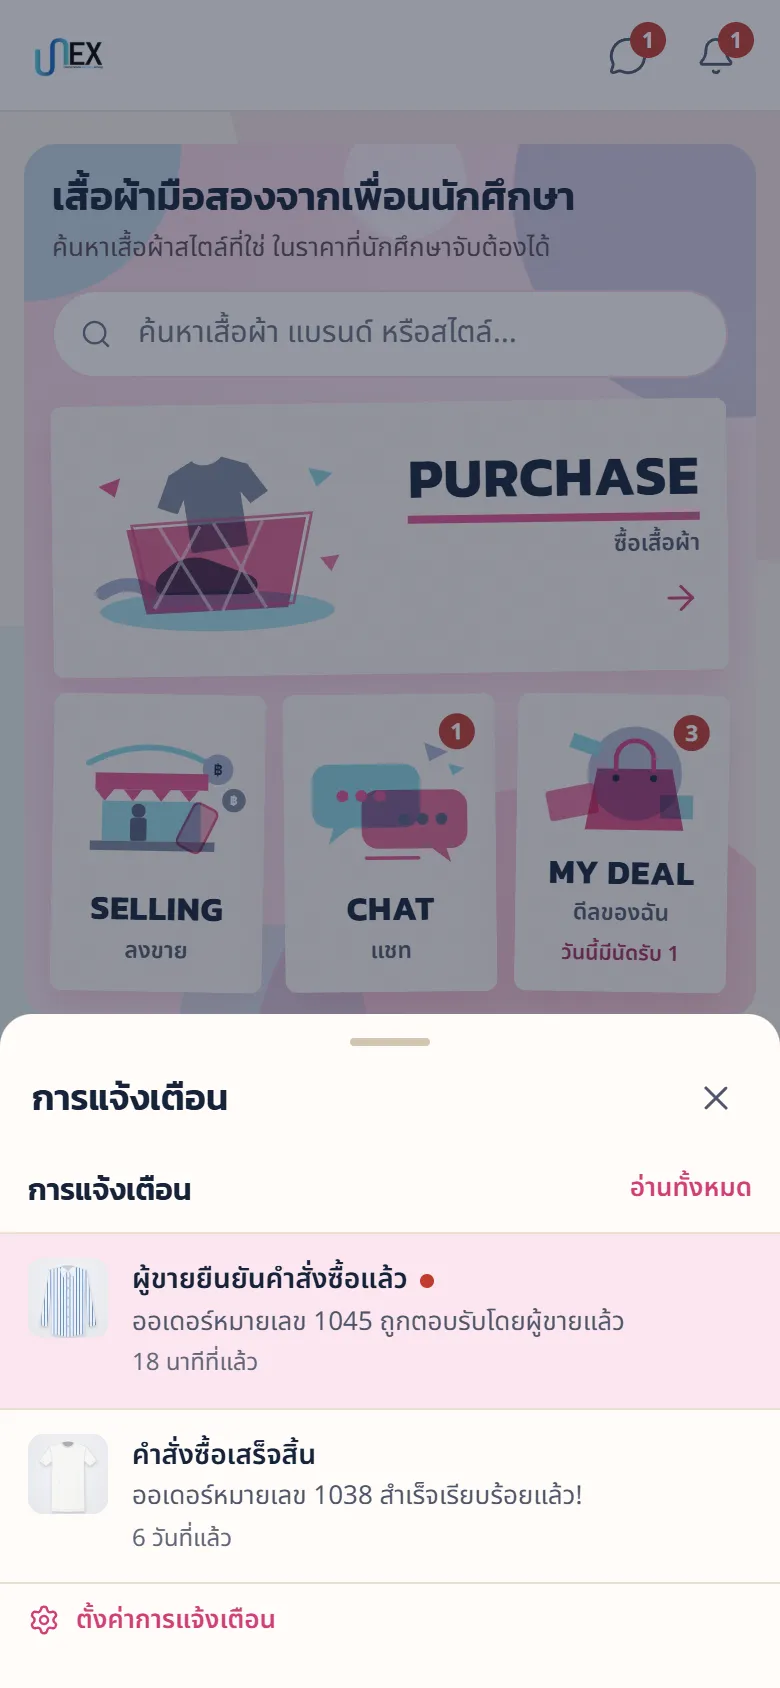
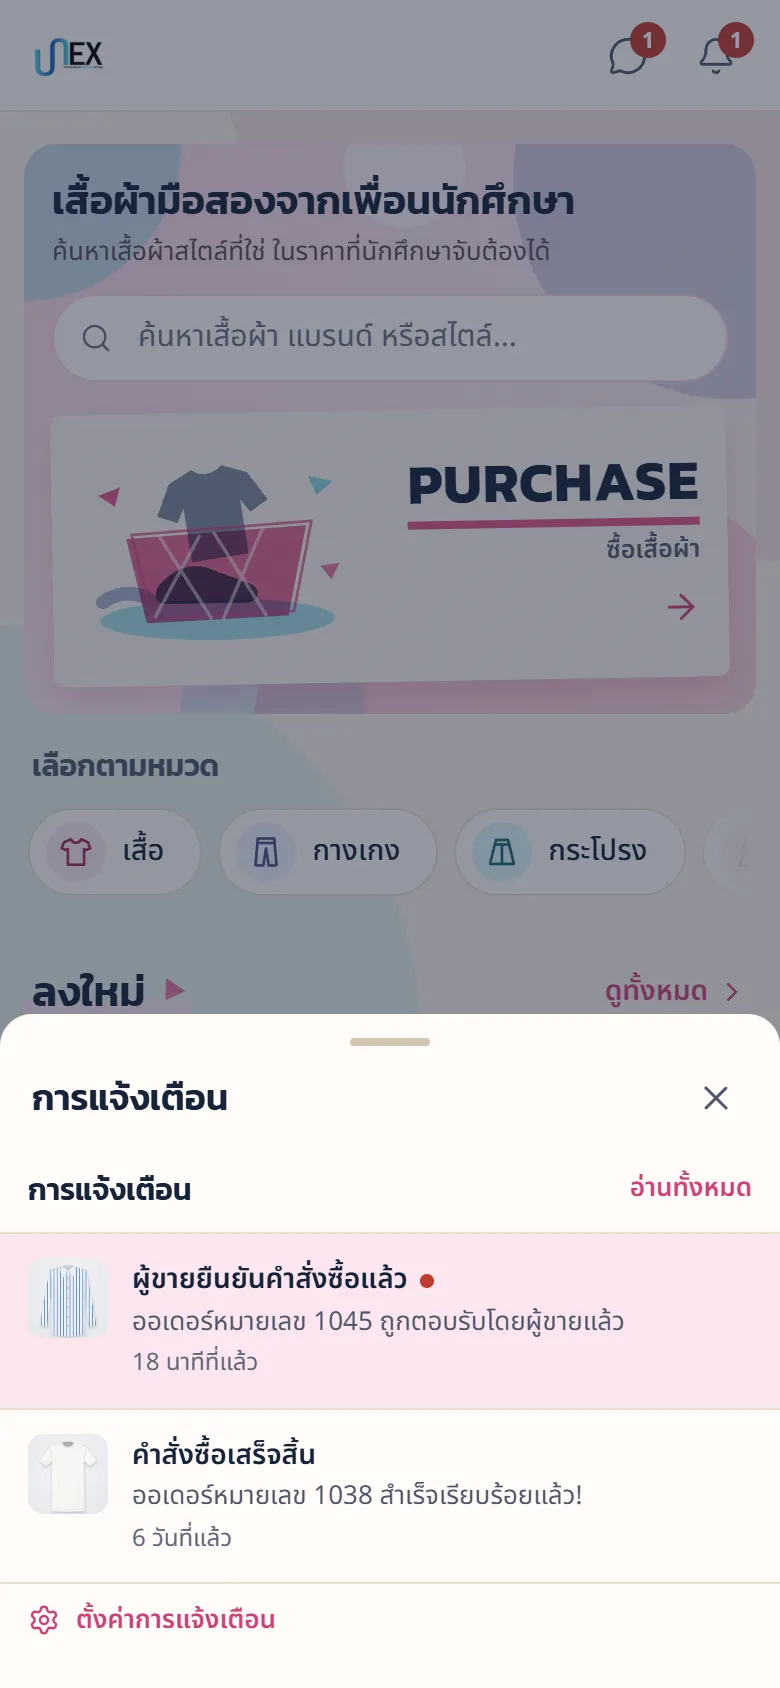
Home band keeps only PURCHASE: drop SELLING, CHAT and MY DEAL tiles; title and search left, PURCHASE card right (stacked on phones); refresh two help shots

diff --git a/index.html b/index.html
@@ -874,18 +874,17 @@ a.s-link{font-size:13px;font-weight:600;color:var(--primary);margin-top:auto}
 .icon-btn.send{background:var(--primary);color:var(--on-primary);border-radius:50%}
 
 /* ---------- home "rich menu" (matches the UNIXA LINE OA) ---------- */
-.rm{position:relative;border-radius:22px;padding:22px;margin-bottom:22px;background:var(--band-bg);color:var(--band-ink);overflow:hidden;isolation:isolate}
+.rm{position:relative;display:grid;grid-template-columns:minmax(0,1fr) minmax(300px,440px);gap:16px 32px;align-items:center;border-radius:22px;padding:24px 28px;margin-bottom:22px;background:var(--band-bg);color:var(--band-ink);overflow:hidden;isolation:isolate}
 .rm::before{content:"";position:absolute;inset:0;z-index:-1;background-image:var(--paper);opacity:.45}
-.rm-top{display:flex;align-items:flex-end;justify-content:space-between;gap:16px;flex-wrap:wrap;margin-bottom:18px}
+.rm-top{display:flex;flex-direction:column;align-items:stretch;gap:16px;min-width:0}
 .rm h1{font-size:28px;line-height:1.2;color:var(--band-ink)}
 .rm-top p{color:var(--band-sub);font-size:15px;margin-top:4px}
-.rm .hero-search{flex:1;min-width:280px;max-width:520px;margin:0}
+.rm .hero-search{min-width:0;max-width:520px;margin:0}
 .rm .hero-search input{background:#FFFCF8;border-color:rgba(207,63,121,.22);color:#16233A}
 .rm .hero-search input::placeholder{color:#6B7083}
 .rm .hero-search .i{color:#6B7083}
-.rm-grid{display:grid;grid-template-columns:2fr 1fr 1fr 1fr;gap:16px}
 .rm-t{position:relative;display:flex;flex-direction:column;align-items:center;justify-content:flex-end;gap:2px;min-height:190px;padding:14px 12px 16px;background:#FFF7F0 var(--paper);color:#16233A;border:0;border-radius:6px;box-shadow:var(--tile-shadow);transition:transform .15s;font:inherit;cursor:pointer;text-align:center;width:100%}
-.rm-t:nth-child(1){transform:rotate(-.8deg)}.rm-t:nth-child(2){transform:rotate(1deg)}.rm-t:nth-child(3){transform:rotate(-.6deg)}.rm-t:nth-child(4){transform:rotate(.9deg)}
+.rm-t{transform:rotate(-1deg)}
 .rm-t:hover{transform:rotate(0) translateY(-2px)}
 .rm-t:focus-visible{outline:3px solid #CF3F79;outline-offset:3px}
 .rm-art{width:100%;max-width:150px;height:auto;flex:1;min-height:0}
@@ -898,9 +897,7 @@ a.s-link{font-size:13px;font-weight:600;color:var(--primary);margin-top:auto}
 .rm-th{font-size:13.5px;color:#4F566B;font-weight:600;margin-top:3px}
 .rm-d{font-size:13px;color:#4F566B;margin-top:8px;line-height:1.45;max-width:30ch}
 .rm-arrow{color:#CF3F79;margin-top:6px}
-.rm-status{font-size:12px;color:#A82A61;font-weight:600;margin-top:2px}
-.rm-t .count{position:absolute;top:10px;right:10px}
-@media (max-width:899px){.rm-grid{grid-template-columns:repeat(3,minmax(0,1fr))}.rm-main{grid-column:1/-1}}
+@media (min-width:768px) and (max-width:1023px){.rm{grid-template-columns:minmax(0,1fr) 360px;gap:16px 24px;padding:22px}.rm-main{padding:14px 16px;gap:12px}.rm-main .rm-art{width:40%}.rm-main .rm-en{font-size:34px}}
 .sec-h h2{background:linear-gradient(transparent 62%,var(--primary-soft) 62%);padding:0 4px;margin-left:-4px}
 .action-card{background:#FFF9F4;color:#16233A;border:0;border-radius:20px;box-shadow:var(--shadow-soft)}
 .action-card.tone-danger{background:#FFF1EE}.action-card.tone-success{background:#EEF8F1}
@@ -961,21 +958,16 @@ a.s-link{font-size:13px;font-weight:600;color:var(--primary);margin-top:auto}
 @media (max-width:767px){
   :root{--top-h:56px}
   .sidebar,.nav-btn,.nav-scrim,.demo-fab,.nav-top .navrow{display:none}
-  .rm{padding:14px;border-radius:16px;margin:0 -4px 16px}
+  .rm{grid-template-columns:minmax(0,1fr);gap:14px;padding:16px 14px;border-radius:16px;margin:0 -4px 16px}
   .rm h1{font-size:20px}
-  .rm-top{margin-bottom:12px;gap:10px;flex-direction:column;align-items:stretch}
+  .rm-top{gap:10px}
   .rm-top p{font-size:13px}
   .rm .hero-search{min-width:0;max-width:none;width:100%}
-  .rm-grid{gap:10px}
-  .rm-t{min-height:118px;padding:8px 6px 10px}
-  .rm-en{font-size:17px}
-  .rm-th{font-size:11.5px}
-  .rm-status{font-size:10.5px}
+  .rm-th{font-size:12.5px}
   .rm-main{min-height:136px;padding:12px 14px}
   .rm-main .rm-en{font-size:28px}
   .rm-main .rm-art{width:44%}
   .rm-d{display:none}
-  .rm-art{max-width:96px}
   .bn[aria-current="page"]>svg{background:var(--primary-soft);border-radius:999px;padding:2px 14px;box-sizing:content-box}
   .only-desk-i{display:none}
   .only-mob-i{display:inline}
@@ -2642,8 +2634,6 @@ for (const ns in COPY_DIRECT) DICT[ns] = Object.assign(DICT[ns] || {}, COPY_DIRE
 const COPY_RM = {
   rm: {
     buyT:['ซื้อเสื้อผ้า','Buy clothes'], buyD:['เสื้อผ้ามือสองจากเพื่อนในมหาวิทยาลัย ราคานักศึกษา','Second-hand clothes from students on campus, at student prices'],
-    sellT:['ลงขาย','Sell'], sellSeller:['ตู้ของฉัน','My closet'], chatT:['แชท','Chat'], dealT:['ดีลของฉัน','My deals'],
-    dealToday:['วันนี้มีนัดรับ {n}','{n} pickup today'], dealNone:['วันนี้ยังไม่มีดีล','No deals today'], menu:['เมนูหลัก','Main menu'],
   },
 };
 for (const ns in COPY_RM) DICT[ns] = Object.assign(DICT[ns] || {}, COPY_RM[ns]);
@@ -3303,22 +3293,9 @@ const byNewest = (a, b) => b.listed - a.listed;
 /* Home "rich menu" drawings — flat riso inks (pink, aqua, lavender, slate) overlapping with multiply, like the UNIXA LINE OA menu */
 const RM_ART = {
   buy: '<svg class="rm-art" viewBox="0 0 200 140" aria-hidden="true"><ellipse cx="100" cy="122" rx="86" ry="15" fill="#8ED3E0" opacity=".75"/><path d="M16 108c12-8 26-8 36 0" stroke="#A8ADC9" stroke-width="10" fill="none" stroke-linecap="round"/><path d="M70 18l18-8c4 6 16 6 22 0l18 8 12 22-14 7-6-10v40H78V37l-6 10-14-7z" fill="#7F879B" transform="rotate(-8 100 50)"/><path d="M62 92c10-10 24-12 36-6l26 10c8 3 8 13-2 14H60c-7-2-7-12 2-18z" fill="#565F7A" style="mix-blend-mode:multiply"/><path d="M34 62l132-8-14 66-104 4z" fill="#E0538C" opacity=".88" style="mix-blend-mode:multiply"/><path d="M34 62l132-8-14 66-104 4z" fill="none" stroke="#CF3F79" stroke-width="2" transform="translate(4 -3)" opacity=".7"/><path d="M58 60l38 62M98 58l38 62M134 56l-30 66M88 60l-34 60" stroke="#fff" stroke-width="2.5" opacity=".5"/><path d="M14 30l16-6-4 14z" fill="#E0538C"/><path d="M168 18l18 4-12 10z" fill="#8ED3E0"/><path d="M176 84l14-2-6 12z" fill="#E0538C" opacity=".8"/></svg>',
-  sell: '<svg class="rm-art" viewBox="0 0 160 120" aria-hidden="true"><path d="M20 30q52-28 104 0" stroke="#8ED3E0" stroke-width="5" fill="none" stroke-linecap="round"/><circle cx="130" cy="34" r="13" fill="#A8ADC9"/><text x="130" y="39" text-anchor="middle" font-size="14" font-weight="700" fill="#16233A">฿</text><circle cx="144" cy="60" r="10" fill="#7F879B"/><text x="144" y="64" text-anchor="middle" font-size="11" font-weight="700" fill="#fff">฿</text><rect x="26" y="38" width="96" height="14" fill="#E0538C"/><path d="M26 52h16l-8 10zM50 52h16l-8 10zM74 52h16l-8 10zM98 52h16l-8 10z" fill="#E0538C"/><rect x="32" y="62" width="84" height="34" fill="#8ED3E0" opacity=".9"/><circle cx="63" cy="70" r="6" fill="#565F7A"/><rect x="56" y="76" width="14" height="20" rx="3" fill="#565F7A"/><rect x="22" y="96" width="106" height="8" fill="#7F879B"/><rect x="102" y="64" width="22" height="40" rx="5" fill="#F4A9C6" stroke="#E0538C" stroke-width="2" transform="rotate(26 113 84)" style="mix-blend-mode:multiply"/></svg>',
-  chat: '<svg class="rm-art" viewBox="0 0 160 120" aria-hidden="true"><path d="M110 12l20 8-16 8z" fill="#A8ADC9"/><path d="M130 30l14 4-10 6z" fill="#8ED3E0"/><path d="M28 30h64a14 14 0 0 1 14 14v26a14 14 0 0 1-14 14H46l-18 14 4-14h-4a14 14 0 0 1-14-14V44a14 14 0 0 1 14-14z" fill="#8ED3E0"/><path d="M70 52h62a14 14 0 0 1 14 14v22a14 14 0 0 1-14 14h-4l4 12-16-12H70a14 14 0 0 1-14-14V66a14 14 0 0 1 14-14z" fill="#E0538C" opacity=".85" style="mix-blend-mode:multiply"/><circle cx="40" cy="57" r="5" fill="#E0538C"/><circle cx="56" cy="57" r="5" fill="#E0538C"/><circle cx="72" cy="57" r="5" fill="#E0538C"/><circle cx="92" cy="77" r="5" fill="#565F7A"/><circle cx="108" cy="77" r="5" fill="#565F7A"/><circle cx="124" cy="77" r="5" fill="#565F7A"/><path d="M60 110h44" stroke="#E0538C" stroke-width="3" stroke-linecap="round"/></svg>',
-  deal: '<svg class="rm-art" viewBox="0 0 160 120" aria-hidden="true"><circle cx="90" cy="54" r="40" fill="#A8ADC9" opacity=".85"/><path d="M38 20l24 8-4 12-24-8z" fill="#8ED3E0"/><rect x="16" y="66" width="42" height="26" rx="3" fill="#E0538C" opacity=".8" transform="rotate(-12 37 79)"/><path d="M58 50h64l10 52H48z" fill="#E0538C" style="mix-blend-mode:multiply"/><path d="M74 52v-10a16 16 0 0 1 32 0v10" stroke="#CF3F79" stroke-width="4" fill="none"/><circle cx="74" cy="58" r="3" fill="#16233A"/><circle cx="106" cy="58" r="3" fill="#16233A"/><rect x="112" y="72" width="28" height="20" fill="#8ED3E0" opacity=".9" style="mix-blend-mode:multiply"/></svg>',
 };
 function vRichMenu(){
-  const g = isGuest(), sel = isSeller();
-  const today = g ? 0 : S.orders.concat(sel ? S.sorders : []).filter(o => o.status === 'accept' && sod(o.date).getTime() === TODAY.getTime()).length;
-  const badge = n => n ? '<span class="count attn" aria-hidden="true">' + n + '</span>' : '';
-  const tile = (attrs, art, en, th, extra, n, label) => '<' + (attrs.startsWith('button') ? attrs : 'a ' + attrs) + ' class="rm-t" aria-label="' + esc(label) + '">' + art + '<span class="rm-txt"><span class="rm-en">' + en + '</span><span class="rm-th">' + esc(th) + '</span>' + (extra || '') + '</span>' + badge(n) + '</' + (attrs.startsWith('button') ? 'button' : 'a') + '>';
-  const sellGo = sel ? 'mycloset' : sellTarget(), dealGo = g ? 'login' : 'orders';
-  const main = '<a class="rm-t rm-main" href="#browse" data-go="browse">' + RM_ART.buy + '<span class="rm-txt"><span class="rm-en">PURCHASE</span><span class="rm-th">' + t('rm.buyT') + '</span><span class="rm-d">' + t('rm.buyD') + '</span><span class="rm-arrow">' + ic('arrow-right') + '</span></span></a>';
-  return '<nav class="rm-grid" aria-label="' + t('rm.menu') + '">' + main +
-    tile('href="#' + sellGo + '" data-go="' + sellGo + '"', RM_ART.sell, 'SELLING', sel ? t('rm.sellSeller') : t('rm.sellT'), '', sel ? sellerNew() : 0, 'SELLING · ' + (sel ? t('rm.sellSeller') : t('rm.sellT'))) +
-    tile(g ? 'href="#login" data-go="login"' : 'button type="button" data-act="chatOpen"', RM_ART.chat, 'CHAT', t('rm.chatT'), '', g ? 0 : chatUnread(), 'CHAT · ' + t('rm.chatT')) +
-    tile('href="#' + dealGo + '" data-go="' + dealGo + '"', RM_ART.deal, 'MY DEAL', t('rm.dealT'), g ? '' : '<span class="rm-status">' + (today ? t('rm.dealToday', { n:today }) : t('rm.dealNone')) + '</span>', g ? 0 : buyerNeeds(), 'MY DEAL · ' + t('rm.dealT')) +
-    '</nav>';
+  return '<a class="rm-t rm-main" href="#browse" data-go="browse">' + RM_ART.buy + '<span class="rm-txt"><span class="rm-en">PURCHASE</span><span class="rm-th">' + t('rm.buyT') + '</span><span class="rm-d">' + t('rm.buyD') + '</span><span class="rm-arrow">' + ic('arrow-right') + '</span></span></a>';
 }
 function vHome(){
   const live = liveListings().slice().sort(byNewest);
